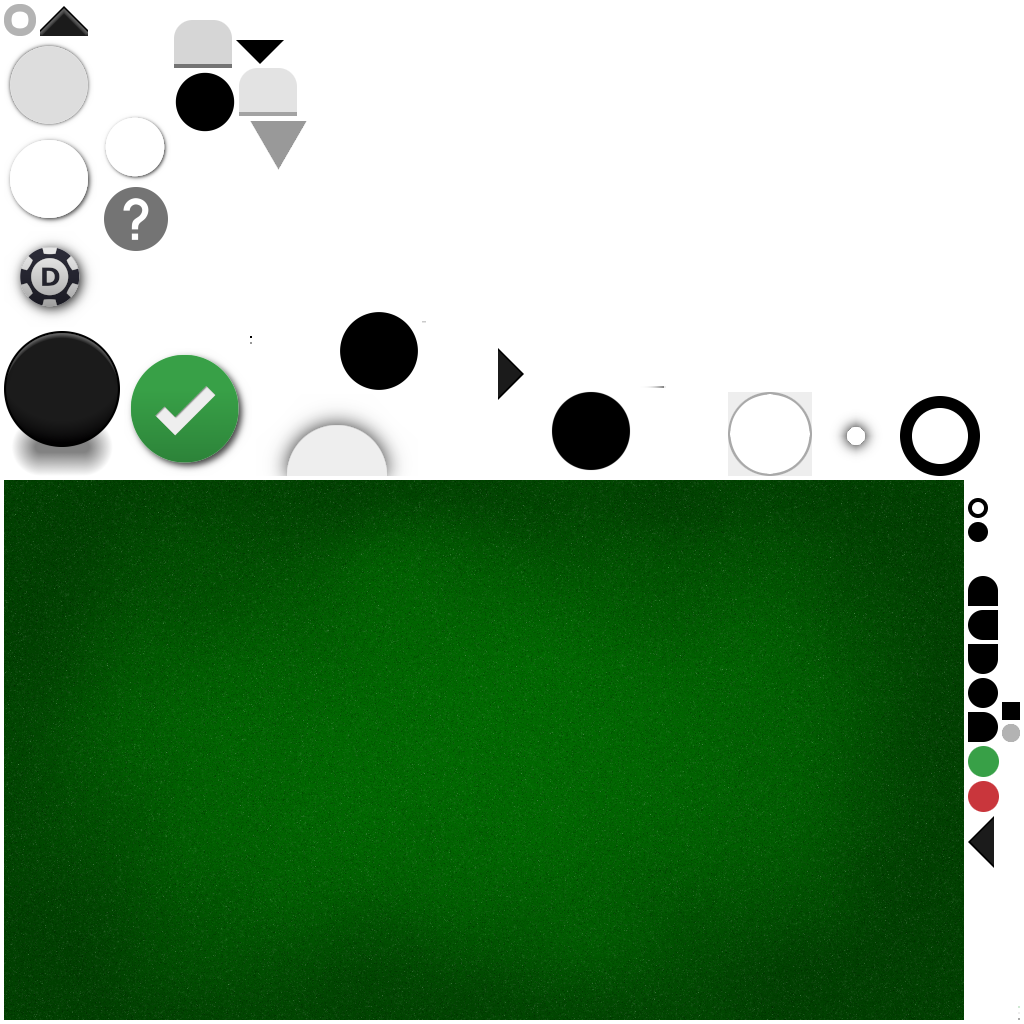
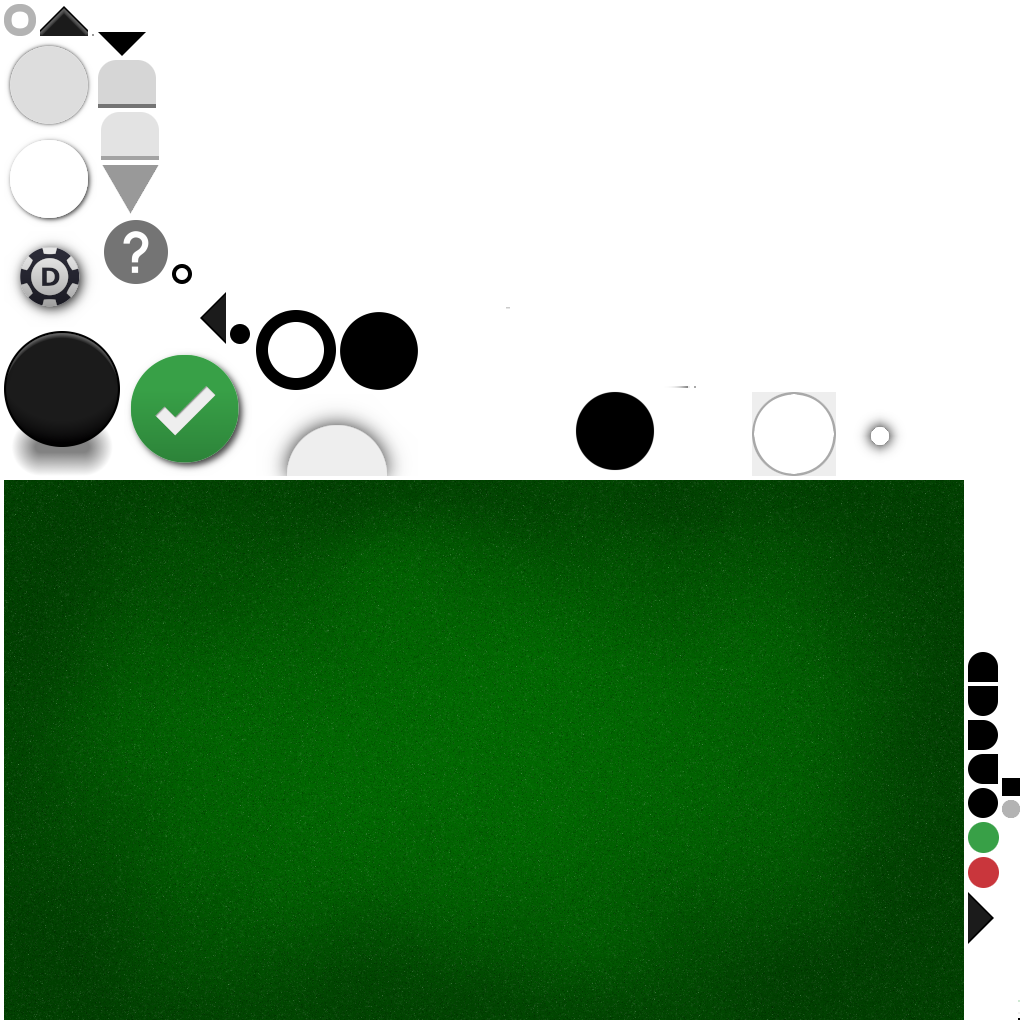
Fixed slider drawing and thumb assets are now shared with switch

diff --git a/app/src/main/kotlin/com/maltaisn/cardgame/widget/Slider.kt b/app/src/main/kotlin/com/maltaisn/cardgame/widget/Slider.kt
@@ -147,7 +147,7 @@ class Slider(skin: Skin) : SelectableWidget() {
                             Vector2.len(event.stageX - pressStagePos.x,
                                     event.stageY - pressStagePos.y) < MAX_SLIDE_DRAG_DISTANCE) {
                         // To slide, touch must start and end within bounds and touch must not have been dragged too much.
-                        pressOffset = style.thumb.minWidth / 2
+                        pressOffset = style.thumbSize / 2
                         slideTo(computeProgressForX(x))
                     }
                     sliderPressed = false
@@ -185,7 +185,7 @@ class Slider(skin: Skin) : SelectableWidget() {
 
             /** Returns true if point at ([x]; [y]) is on the slider thumb. (in actor coordinates) */
             private fun isPointInThumb(x: Float, y: Float): Boolean {
-                val radius = style.thumb.minWidth / 2
+                val radius = style.thumbSize / 2
                 return Vector2.len(thumbX + radius - x, radius - y) <= radius
             }
 
@@ -205,36 +205,36 @@ class Slider(skin: Skin) : SelectableWidget() {
         super.draw(batch, parentAlpha)
 
         val track = style.track
-        val thumb = style.thumb
-        val thumbOverlay = style.thumbOverlay
+        val thumbSize = style.thumbSize
 
         val percentProgress = (realProgress - minProgress) / (maxProgress - minProgress)
-        val trackX = (thumb.minWidth - track.minHeight) / 2
-        val trackY = (thumb.minHeight - track.minHeight) / 2
-        trackWidth = width + (track.minHeight - thumb.minWidth)
+        val trackX = (thumbSize - track.minWidth) / 2
+        val trackY = (thumbSize - track.minHeight) / 2
+        trackWidth = width - thumbSize
         trackFilledWidth = trackWidth * percentProgress
-        thumbX = (width - thumb.minWidth) * percentProgress
+        thumbX = (width - thumbSize) * percentProgress
 
         // Draw track, filled on the left side of the thumb and empty on the right side
         val emptyColor = style.trackEmptyColor
         batch.setColor(color.r * emptyColor.r, color.g * emptyColor.g,
                 color.b * emptyColor.b, parentAlpha)
         track.draw(batch, x + trackX + trackFilledWidth, y + trackY,
-                (trackWidth - trackFilledWidth), track.minHeight)
+                trackWidth - trackFilledWidth + track.minWidth, track.minHeight)
 
         val filledColor = if (enabled) style.trackFilledColor else style.trackFilledDisabledColor
         batch.setColor(color.r * filledColor.r, color.g * filledColor.g,
                 color.b * filledColor.b, parentAlpha)
-        track.draw(batch, x + trackX, y + trackY, trackFilledWidth, track.minHeight)
+        track.draw(batch, x + trackX, y + trackY,
+                trackFilledWidth + track.minWidth, track.minHeight)
 
         // Draw thumb
         batch.setColor(color.r, color.g, color.b, parentAlpha)
-        thumb.draw(batch, x + thumbX, y, thumb.minWidth, thumb.minHeight)
+        style.thumb.draw(batch, x + thumbX, y, thumbSize, thumbSize)
 
         // Draw thumb hover/press/disabled overlay
         batch.setColor(color.r, color.g, color.b, parentAlpha *
                 (hoverAlpha + pressAlpha) * 0.1f + if (enabled) 0f else 0.2f)
-        thumbOverlay.draw(batch, x + thumbX, y, thumbOverlay.minWidth, thumbOverlay.minHeight)
+        style.thumbOverlay.draw(batch, x + thumbX, y, thumbSize, thumbSize)
     }
 
     override fun validate() {
@@ -254,11 +254,11 @@ class Slider(skin: Skin) : SelectableWidget() {
         }
     }
 
-    override fun getMinWidth() = style.thumb.minWidth + 40f
+    override fun getMinWidth() = style.thumbSize + 40f
 
     override fun getPrefWidth() = 0f
 
-    override fun getPrefHeight() = style.thumb.minHeight
+    override fun getPrefHeight() = style.thumbSize
 
     override fun clearActions() {
         super.clearActions()
@@ -292,6 +292,7 @@ class Slider(skin: Skin) : SelectableWidget() {
         lateinit var trackFilledDisabledColor: Color
         lateinit var thumb: Drawable
         lateinit var thumbOverlay: Drawable
+        var thumbSize = 0f
     }
 
     companion object {

diff --git a/app/src/main/kotlin/com/maltaisn/cardgame/widget/Switch.kt b/app/src/main/kotlin/com/maltaisn/cardgame/widget/Switch.kt
@@ -38,6 +38,8 @@ class Switch(skin: Skin) : CheckableWidget() {
 
     val style: SwitchStyle = skin.get()
 
+    private var thumbX = 0f
+
     init {
         // A capture listener is used to intercept the touch down event,
         // so that if the switch is in a scroll pane, it won't be able to scroll.
@@ -131,17 +133,15 @@ class Switch(skin: Skin) : CheckableWidget() {
                 background.minWidth, background.minHeight)
 
         // Draw thumb
+        val thumbSize = style.thumbSize
         batch.setColor(color.r, color.g, color.b, parentAlpha)
-        val thumb = style.thumb
-        val thumbX = x + offsetX + (background.minWidth - thumb.minWidth) * checkAlpha
-        thumb.draw(batch, thumbX, y + offsetY, thumb.minWidth, thumb.minHeight)
+        thumbX = x + offsetX + (background.minWidth - background.minHeight) * checkAlpha
+        style.thumb.draw(batch, thumbX, y + offsetY, thumbSize, thumbSize)
 
         // Draw thumb hover/press overlay
         batch.setColor(color.r, color.g, color.b,
                 parentAlpha * (hoverAlpha + pressAlpha) * 0.1f + if (enabled) 0f else 0.2f)
-        val thumbOverlay = style.thumbOverlay
-        thumbOverlay.draw(batch, thumbX, y + offsetY,
-                thumbOverlay.minWidth, thumbOverlay.minHeight)
+        style.thumbOverlay.draw(batch, thumbX, y + offsetY, thumbSize, thumbSize)
     }
 
     override fun getPrefWidth() = style.background.minWidth
@@ -151,11 +151,12 @@ class Switch(skin: Skin) : CheckableWidget() {
 
     class SwitchStyle {
         lateinit var background: Drawable
-        lateinit var thumb: Drawable
-        lateinit var thumbOverlay: Drawable
         lateinit var backgroundColor: Color
         lateinit var checkedColor: Color
         lateinit var checkedDisabledColor: Color
+        lateinit var thumb: Drawable
+        lateinit var thumbOverlay: Drawable
+        var thumbSize = 0f
     }
 
     companion object {

diff --git a/app/src/main/kotlin/com/maltaisn/cardgame/widget/SdfTextField.kt b/app/src/main/kotlin/com/maltaisn/cardgame/widget/SdfTextField.kt
@@ -33,6 +33,8 @@ import ktx.style.get
 /**
  * Wrapper class around [Label] for rendering text with a distance field font.
  * Doesn't support [FontStyle.allCaps] and [messageText].
+ * TODO add message text support with 1.9.10 update
+ * FIXME Different font size not supported, see https://github.com/libgdx/libgdx/issues/5719
  */
 class SdfTextField(skin: Skin,
                    fieldStyle: TextFieldStyle,
@@ -58,7 +60,6 @@ class SdfTextField(skin: Skin,
             }
         }
     }
-
 
     override fun drawText(batch: Batch, font: BitmapFont, x: Float, y: Float) {
         batch.shader = shader
